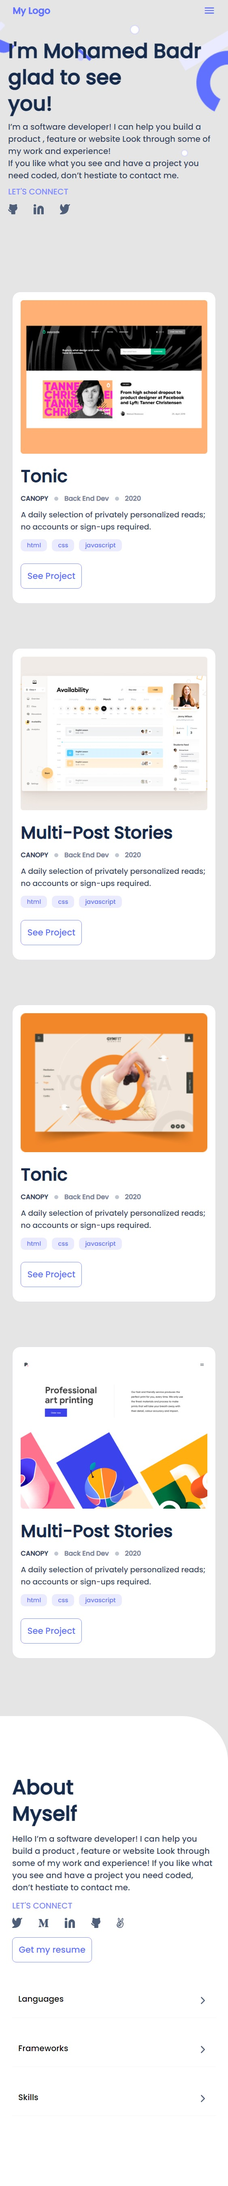
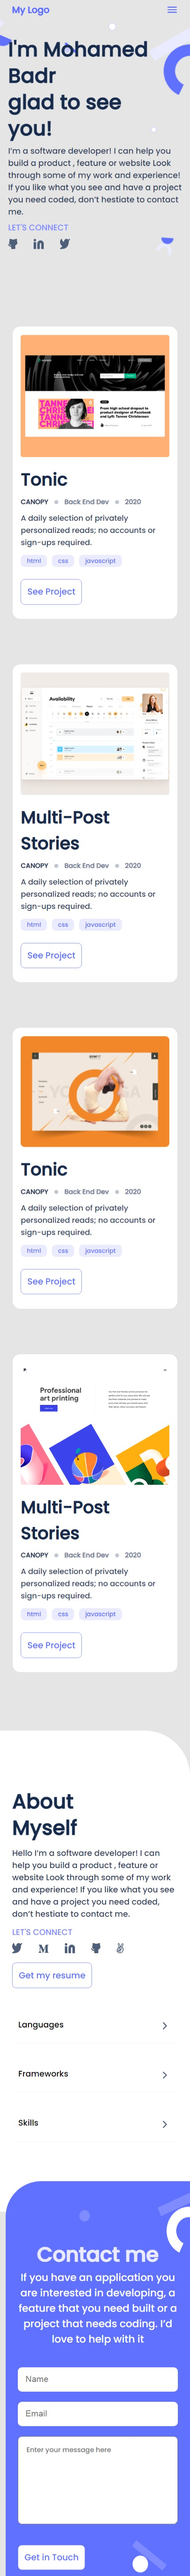
Updated README.md Modified images folder Fixed kinters errors

diff --git a/styles.css b/styles.css
@@ -275,24 +275,26 @@ details[open] summary::after {
 }
 
 .contact-wrapper {
-  background-color: #6070FF;
+  background-color: #6070ff;
   padding: 21px 0 0;
   border-top-left-radius: 70px;
   margin-top: -60px;
   margin-left: 3%;
 }
+
 .contact {
   background: url("./images/contact_background.png");
   background-size: 60% 100%;
   background-repeat: no-repeat;
   background-position: top right;
-  background-color: #6070FF;
+  background-color: #6070ff;
   font-family: "Poppins", sans-serif;
   border-top-left-radius: 100px;
   width: 100%;
   padding: 13px 24px 0;
   box-sizing: border-box;
 }
+
 .contact p:first-child {
   text-align: center;
   font-weight: bold;
@@ -300,19 +302,22 @@ details[open] summary::after {
   margin-bottom: 0;
   color: #fff;
 }
+
 .contact p:first-of-type {
-  color: #EBEBFF;
+  color: #ebebff;
   font-size: 40px;
   text-align: center;
   font-weight: bold;
   margin-top: 80px;
 }
+
 .contact p:nth-child(2) {
   color: #fff;
   text-align: center;
   font-size: 20px;
   margin-bottom: 40px;
 }
+
 .name,
 .email {
   width: 100%;
@@ -322,9 +327,10 @@ details[open] summary::after {
   border: none;
   padding: 15px;
   font-size: 17px;
-  color: #172B4D;
+  color: #172b4d;
   box-sizing: border-box;
 }
+
 .msg {
   width: 100%;
   padding: 16px;

diff --git a/README.md b/README.md
@@ -11,7 +11,7 @@
 - CSS
 ## Live Demo
 
-https://raw.githack.com/mbdesigns1989/my-portfolio-website/mobile-version-skeleton/index.html
+https://raw.githack.com/mbdesigns1989/my-portfolio-website/mobile-form/index.html
 ## Getting Started
 
 To get a local copy up and running follow these simple example steps.
